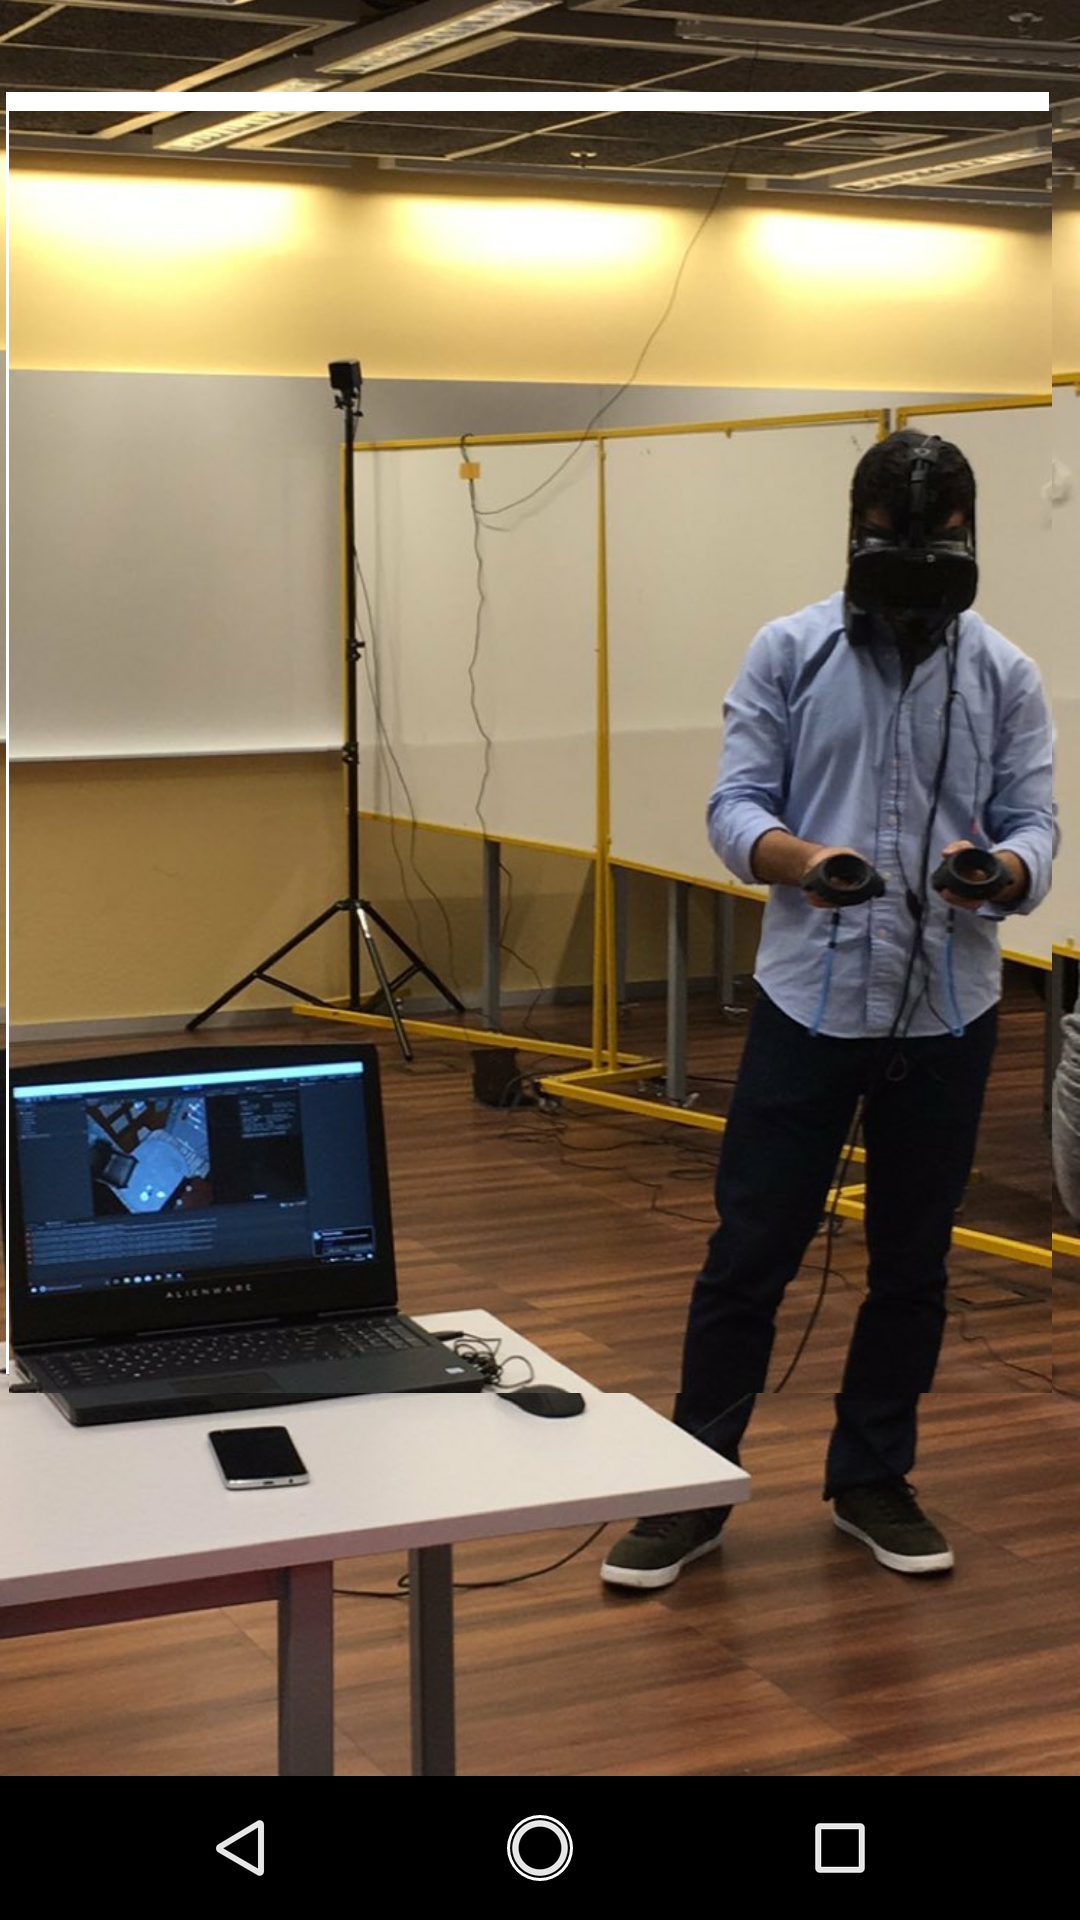
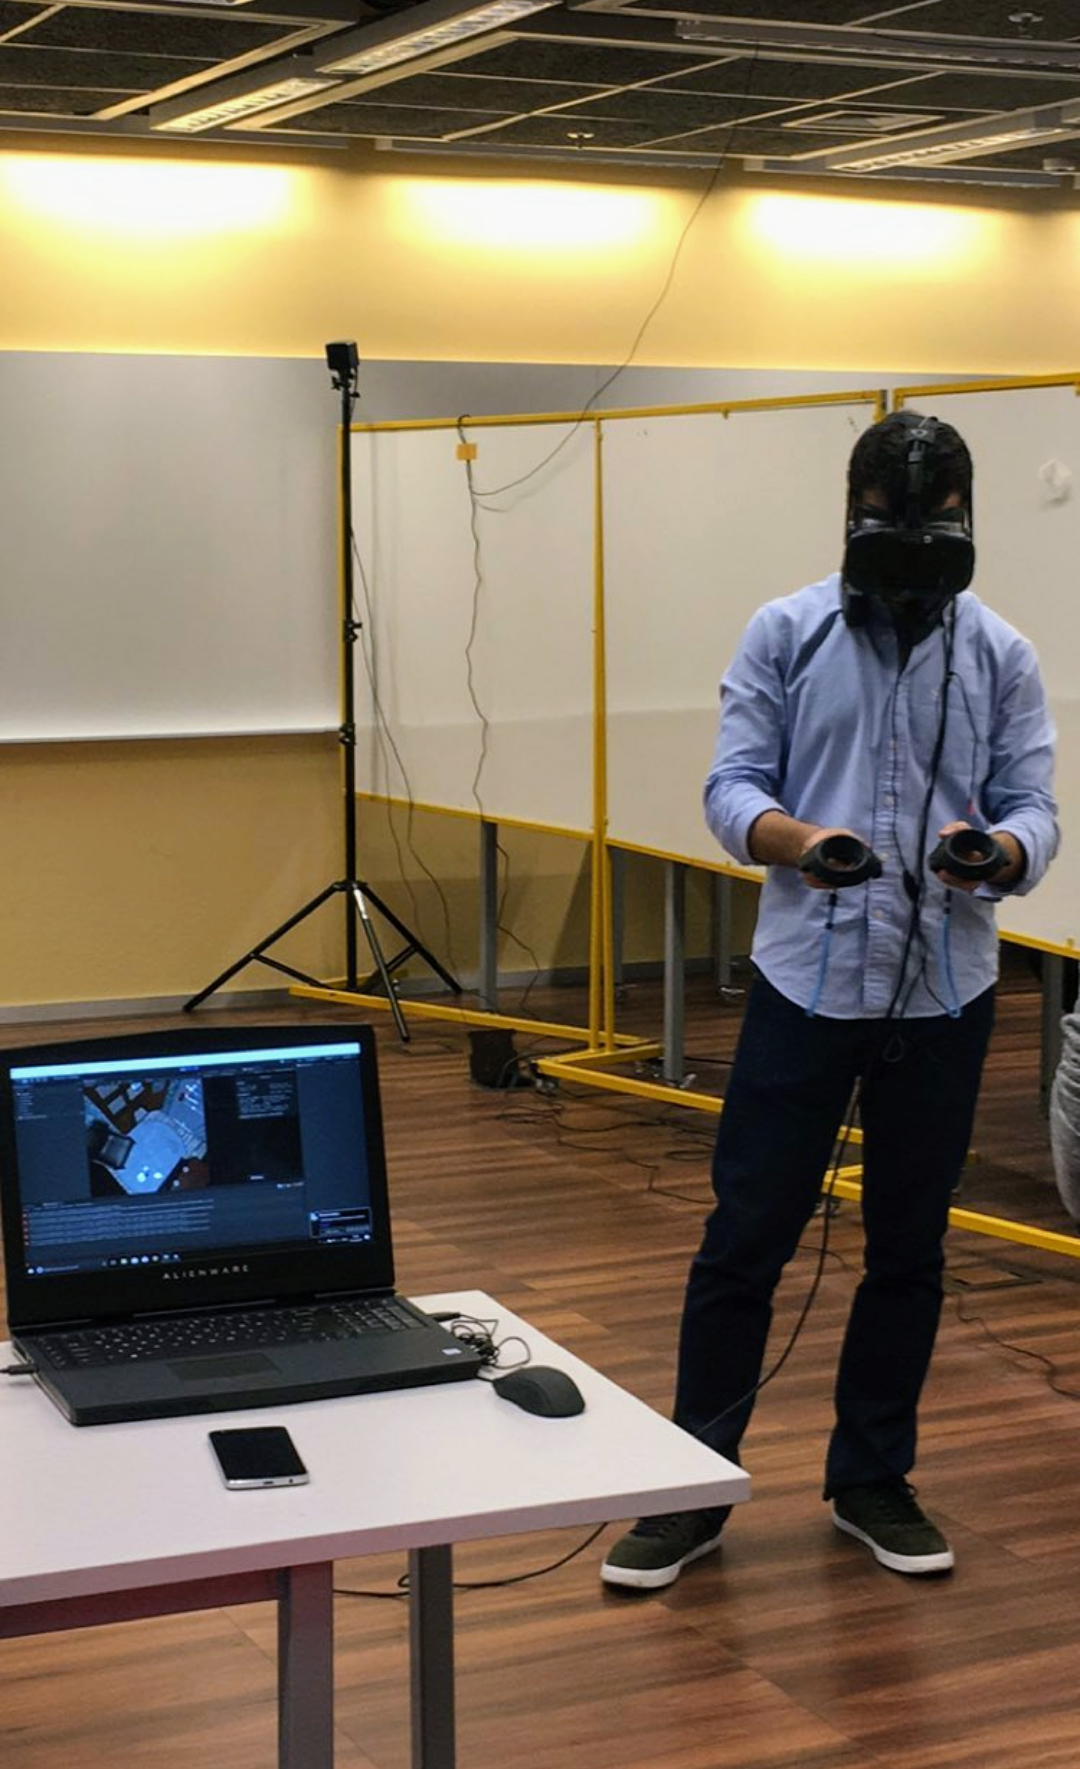
fixing btn and details

diff --git a/index.html b/index.html
@@ -29,10 +29,9 @@
 		color: #fff;
 	}
 
-   a{
-	   color:grey;
-   }
-
+	p{
+		margin-right:10px;
+	}
 	/* Centered texts in each section
 	* --------------------------------------- */
 	#section0{
@@ -174,7 +173,7 @@
 	      <a class="navbar-brand" style="font-family: 'Josefin Sans', sans-serif" href="#firstPage">Matheus Marotzke</a>
 		</div>
 		<ul class="nav navbar-nav">
-			<li class="active"><a href="#me/slide1">Matheus</a></li>
+			<li><a href="#me/slide1">Me</a></li>
 			<li><a href="#projects">Projects</a></li>
 			<li><a href="#awards">Awards</a></li>
 			<li><a href="#student">Student Life</a></li>
@@ -191,8 +190,9 @@
 	<div class="section" style="text-align:center" id="section0">
 		<div id="particles">
 			<div class="circular"></div>
+			<br>
 			<h1 id="Matheus"> </h1>
-			<p style="color:white">Computer Engineering Student</p>
+			<p style="color:white">Innovation, Business and Technology</p>
 		</div>
 	</div>
 	<div class="section" id="section1">
@@ -332,17 +332,17 @@
 				<a target="_blank" href="https://github.com/MatheusDMD/Scary_VR"><button type="button" class="btn btn-outline-primary">View project page on <img src="images/github.png" alt="GitHub" style="width:2em;height:2em;border:0;align:left"></img> GitHub</button></a>
 			</p>
 			<div>
-					<!-- <div class="gallery" style="float:left">
+					<!-- <div class="gallery" tyle="float:left;width: 12%;height:auto">
 						<a target="_blank" href="images/testing.png">
 						<img src="images/testing.png" alt="Logo" width="300" height="200">
 						</a>
 						<div class="desc">Me - Testing the VR setup</div>
 					</div> -->
-					<div class="gallery" style="float:left;width: 25%;height:auto">
-						<a target="_blank" href="images/setup.png">
-						<img src="images/setup.png" alt="algorithm" width="300" height="200">
+					<div class="gallery" style="float:left;width: 12%;height:auto">
+						<a target="_blank" href="images/testing.png">
+						<img src="images/testing.png" alt="picture of me testing" width="300" height="200">
 						</a>
-						<div class="desc">Room Setup</div>
+						<div class="desc">Testing the VR setup</div>
 					</div>
 			</div>
 			<br>
@@ -388,6 +388,12 @@
 				<br>
 				<a target="_blank" href="https://github.com/MatheusDMD/MorseCodeApp"><button type="button" class="btn btn-outline-primary">View project page on <img src="images/github.png" alt="GitHub" style="width:2em;height:2em;border:0;align:left"></img> GitHub</button></a>
 			</p>
+			<div class="gallery" style="float:left;width: 10%;height:auto">
+					<a target="_blank" href="images/screenshotmorse.webp">
+					<img src="images/screenshotmorse.webp" alt="Solution Diagram" width="300" height="200">
+					</a>
+					<div class="desc">Solution Diagram</div>
+				</div>
 		</div>
 		
 		<div class="slide" id="slide9" data-anchor="Sky-TV">
@@ -514,7 +520,7 @@
 
 		<div class="slide" id="slide90" data-anchor="Brandstorm4">
 				<h1>L'Oréal Brandstorm 2017</h1>	  
-				<p style="color:white"> The Team</p>
+				<p style="color:white"> The Team & My Role</p>
 				<br>	  
 				<p style="float:left;font-size:150%;width: 65%;">
 					This project was developed during 4 months by a team of 3 engineering students from Insper (Felipe Buniac, Luca Noto and myself). We played every possible role in the team, from product designer to software developer. While I believe I most importantly played a leading role as product manager in the team. I was mostly responsible for the design and developing the concept, prototyping, validation with users and implementation. Together with an amazing team and support from our mentor (Gib de Medeiros), faculty members and friends, we developed a winning solution that took us through 4 stages competition all the way to Paris, bringing the prize to Brazil for the first time in the 25 years of competition.
@@ -582,16 +588,20 @@
 		</div>
 
 		<div class="slide" id="slide2" data-anchor="Insper">
-			<h1>Insper - Computer Engineering</h1>
+			<h1>Insper</h1>
+			<p style="color:white"> BACS - Computer Engineering</p>
+			<br>
 			<p style="float:left;font-size:150%;width: 65%;">
-				As the first class to ever graduate the Computer Engineering program at Insper I feel a huge responsibility on not only helping set the culture for the courses and student life, but also creating a solid image of a the school. I've been working hard to achieve that, being active as a student and working hard to show our potential outside. By working on interesting companies and projects and joining global competitions to prove that I can go further and challenge myself.
+				As the first class to ever graduate the 5 year Computer Engineering program at Insper I feel a huge responsibility on not only helping set the culture for the courses and student life, but also creating a solid image of a the school. I've been working hard to achieve that, being active as a student and working hard to show our potential outside. By working on interesting companies and projects and joining global competitions to prove that I can go further and challenge myself.
 				<br>
 				<a target="_blank" style="float:left;margin:5px;color:rgb(194, 7, 7)" href="http://insper.edu.br/en"><button type="button" class="btn btn-outline-primary">Insper</button></a>
 			</p>
 		</div>
 
 		<div class="slide" id="slide3" data-anchor="Columbia">
-			<h1>Columbia University - Exchange Semester</h1>
+			<h1>Columbia University</h1>
+			<p style="color:white"> Exchange Semester</p>
+			<br>
 			<p style="float:left;font-size:150%;width: 65%;">
 				During my exchange semester (2017.1) at Columbia University I'll be taking disciplines in Leadership and Management as well as masters level Computer Science disciplines in the Machine Learning/AI fields.					
 				<strong>More adventures in NYC coming soon!</strong>
